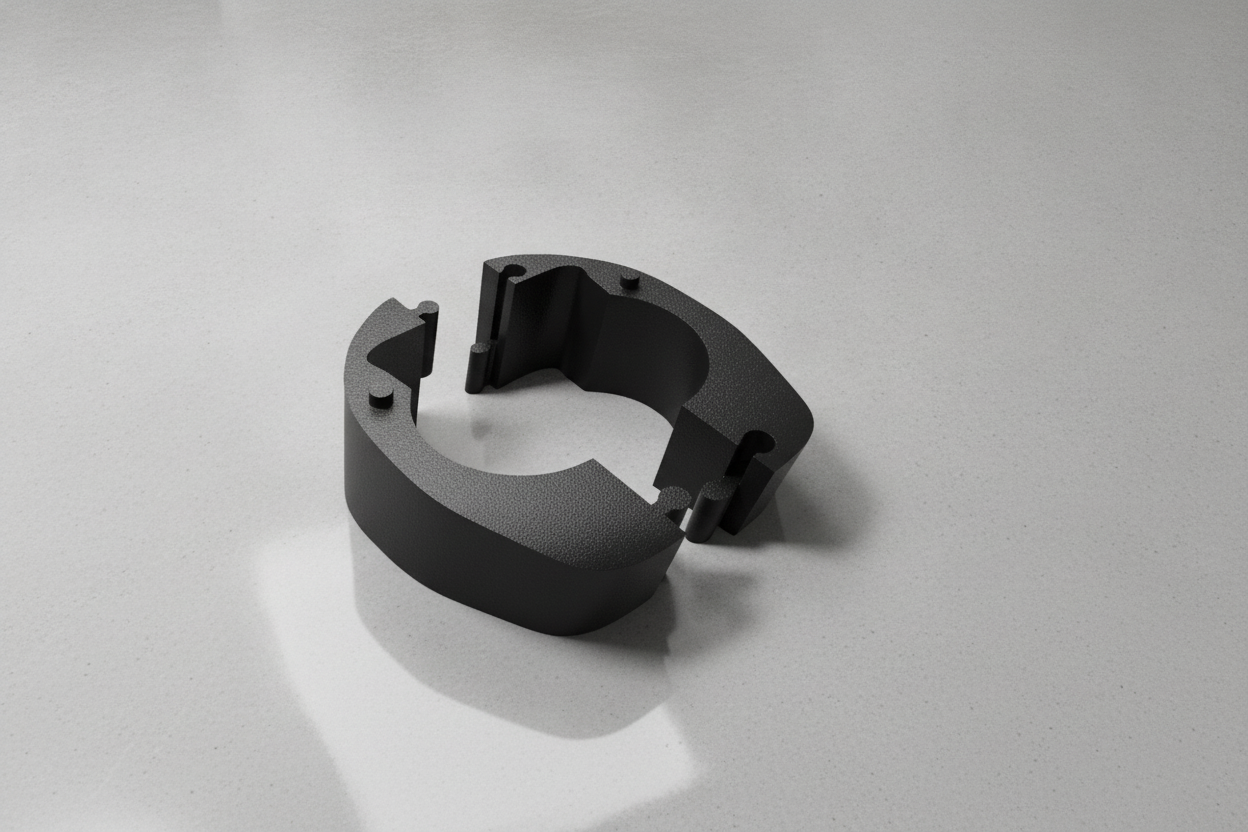
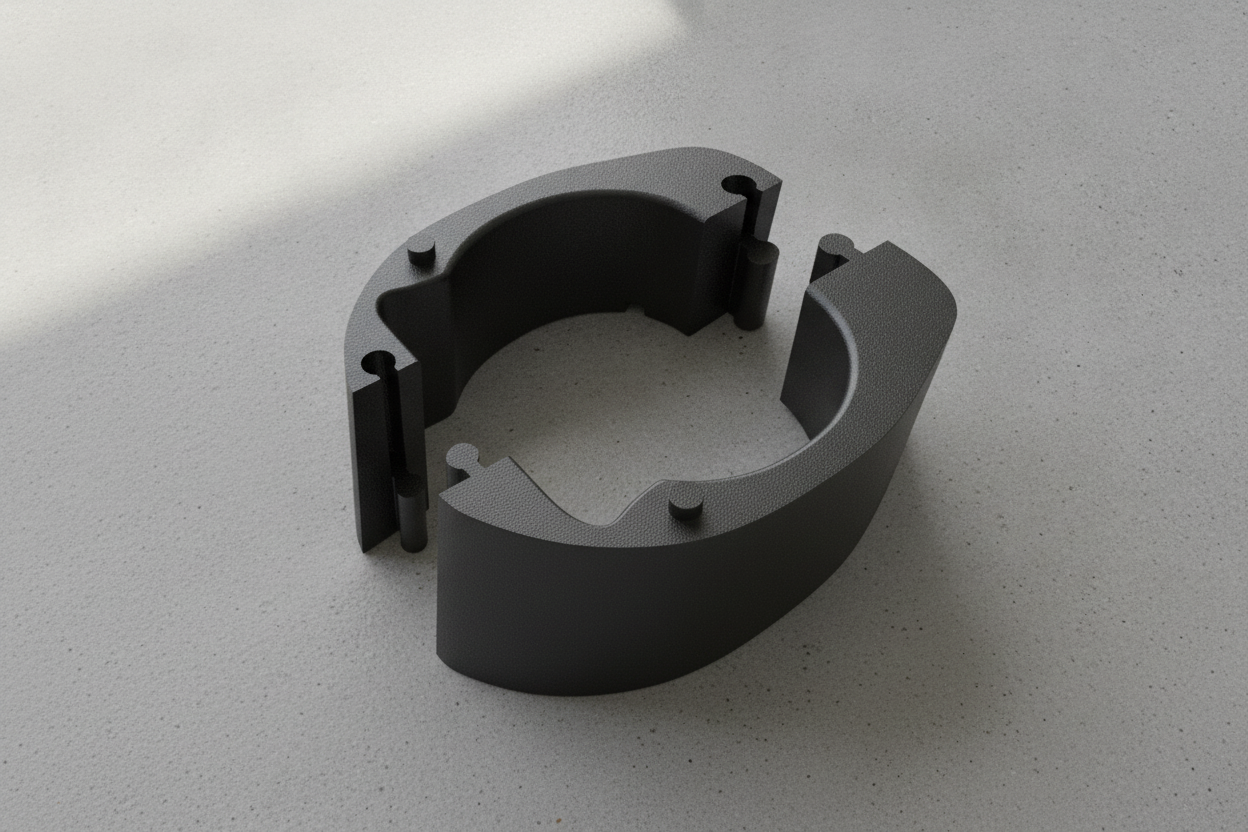
Finaler Stand Rev. C: Hero V2, Doku, lauffähige requirements
- Aufmacherbild durch Hero V2 (Rev. C) ersetzt
- requirements.txt: networkx ergänzt (render_adapter.py lief in einer
  frischen Umgebung nicht), ungenutztes scipy entfernt; in frischem
  venv mit Python 3.11 geprüft
- render_adapter.py: Zwischendateien im temporären Ordner statt /tmp
- README: Stand, FDM nur für Passprobe, Steuersatzspiel nachprüfen
- KONSTRUKTION.md: Stand und nächster Schritt, Prüfliste Prototyp 2,
  Ideen aus dem Review (O-4 bis O-7), Lastabschätzung, Messfehler Skizze
- CLAUDE.md: Herkunft des Aufmacherbilds

Claude-Session: https://claude.ai/code/session_01Hd3qfhqnJobezoX1Y5tUfd

diff --git a/02_CAD/render_adapter.py b/02_CAD/render_adapter.py
@@ -1,6 +1,6 @@
 """Renderings des zweiteiligen Adapters: Schnitte in mehreren Höhen (Hälfte A blau, B orange), Iso/Explosion, Drucklayout.
 Vorher python 02_CAD/adapter.py ausführen (das Drucklayout wird aus 02_CAD/out/DRUCK_*.stl gelesen)."""
-import sys, math, numpy as np, trimesh, matplotlib
+import sys, os, math, tempfile, numpy as np, trimesh, matplotlib
 matplotlib.use("Agg")
 import matplotlib.pyplot as plt
 from mpl_toolkits.mplot3d.art3d import Poly3DCollection
@@ -8,9 +8,10 @@ sys.path.insert(0, "02_CAD")
 import adapter as ad, cadquery as cq
 
 A, B = ad.adapter()
-cq.exporters.export(A, "/tmp/A.stl", tolerance=0.02, angularTolerance=0.1)
-cq.exporters.export(B, "/tmp/B.stl", tolerance=0.02, angularTolerance=0.1)
-mA, mB = trimesh.load("/tmp/A.stl"), trimesh.load("/tmp/B.stl")
+tmp = tempfile.mkdtemp()
+cq.exporters.export(A, os.path.join(tmp, "A.stl"), tolerance=0.02, angularTolerance=0.1)
+cq.exporters.export(B, os.path.join(tmp, "B.stl"), tolerance=0.02, angularTolerance=0.1)
+mA, mB = trimesh.load(os.path.join(tmp, "A.stl")), trimesh.load(os.path.join(tmp, "B.stl"))
 H = ad.HEIGHT
 cols = {"A": "tab:blue", "B": "tab:orange"}
 zs = [(0.5, "z = 0,5: Unterseite, Taschen für Trek-Nasen"), (4.5, "z = 4,5: unterer Zapfen von A greift in B"),

diff --git a/KONSTRUKTION.md b/KONSTRUKTION.md
@@ -2,7 +2,7 @@
 
 Adapter zwischen dem originalen Trek-Steuersatzdeckel (Émonda SL 6, 2024) und dem Tavelo-Avro-Rise-Cockpit.
 
-**Stand:** Rev. C, 2026-09-29: Prototyp 1 gedruckt und am Rad geprüft, Änderungen eingearbeitet (Abschnitt 6).
+**Stand:** Rev. C, 2026-09-29: Prototyp 1 gedruckt und am Rad geprüft, Änderungen eingearbeitet (Abschnitt 6). Prototyp 2 (Rev. C, FDM) ist in Fertigung. Nächster Schritt: dessen Befund in Abschnitt 6 eintragen.
 
 ---
 
@@ -18,7 +18,7 @@ Adapter zwischen dem originalen Trek-Steuersatzdeckel (Émonda SL 6, 2024) und d
 ## 2. Koordinatensystem
 
 - **Ursprung:** Durchstoßpunkt der Schaftachse durch die Unterseite
-- **x:** Längsachse, **+x nach hinten** (Richtung Oberrohr), Spitze vorn bei x = −28
+- **x:** Längsachse, **+x nach hinten** (Richtung Oberrohr); Spitze vorn bei x = −28 (Oberseite) bzw. −30,5 (Unterseite)
 - **y:** quer; Teilungsebene y = 0, Hälfte A bei y > 0, Hälfte B bei y < 0
 - **z:** Normale der Unterseite
 - **Schaftachse:** um α_T gegen z nach hinten geneigt
@@ -36,6 +36,8 @@ Adapter zwischen dem originalen Trek-Steuersatzdeckel (Émonda SL 6, 2024) und d
 | Trek-Nasen | Langloch 7,6 × 2,4 × 1,5; äußerste Punkte 20,25 auseinander, innerste 11,35; Längsausdehnung 7,0 | Mitte x = +20,0; y = ±7,9; 24° zur Längsachse, V-förmig (vorn außen) |
 | Taschen für die Nasen | Nase + 0,3 Spiel pro Seite, Tiefe 2,5; vorderes (inneres) Ende zur Bohrung geöffnet (Durchbruch in Taschenbreite) | |
 | Höhe | 20 entlang der Schaftachse | senkrecht zur Unterseite: hinten 15,5 / Achse 20,1 / vorn 24,3 |
+
+Die Skizze V2 in `01_Input/` nennt eine Gesamtlänge von 52,2; das war ein Messfehler, richtig sind 58 (13 + ~15 + 30).
 
 Nasenwinkel abgeleitet: aus der Querausdehnung 23,2°, aus der Längsausdehnung 27,8°, beides erfüllt bei 24,0°. Die Maße sind auf ±0,2 konsistent; das Taschenspiel deckt die Unsicherheit ab.
 
@@ -86,7 +88,13 @@ Selbst gedruckt, am Rad montiert (2026-09-29).
 |---|---|---|
 | O-1 | Wand zwischen Bohrungs-Langloch und Nasentaschen nur 0,27 | erledigt: Taschen zur Bohrung geöffnet (D-9) |
 | O-2 | Feinschliff | erledigt: vorderes Gelenk verschoben (D-5), Taschen offen (D-9), Kantenradien (D-10) |
-| O-3 | Rev. C drucken und am Rad prüfen, dann Endteil in PA12 (MJF) | offen |
+| O-3 | Prototyp 2 (Rev. C, FDM) am Rad prüfen, dann Endteil in PA12 (MJF) | Prototyp 2 in Fertigung. Prüfen: Stifte ohne Druck in den Sacklöchern, B ohne Klemmen aufschiebbar, vorn und hinten bündig, Aufziehen ohne Feilen, Fugen dicht |
+| O-4 | Idee: Stahlstifte statt gedruckter Stifte (Zylinderstift Ø 3 × 6, ISO 8734, in Bohrung ≈ Ø 2,9 eingepresst; Passmaß ist eine Annahme) | nicht umgesetzt; erst Durchmesser und Tiefe der Sacklöcher im Vorbau messen (bisher ungemessen) |
+| O-5 | Idee: Einführfasen 0,3 an den Stiftspitzen, 0,3–0,5 an den Enden der Gelenkzapfen | nicht umgesetzt; erleichtert die Montage |
+| O-6 | Idee: Gelenkspiel für MJF auf 0,25–0,3 (`JOINT_CLEAR`) | nicht umgesetzt; Einschätzung, kein Messwert. 0,2 hat im FDM-Prototyp gepasst |
+| O-7 | Idee: „A“, „B“ und Revision innen einprägen; Oberfläche des Endteils gefärbt und dampfgeglättet | nicht umgesetzt |
+
+Geprüft und unkritisch (Review Rev. C): Die Vorspannung (angenommen 1–2 kN) drückt den 9°-Keil mit ≈ 16 % nach hinten; Reibung an Ober- und Unterseite (μ ≈ 0,2) hält das allein, dazu Stifte, Nasenflanken und nach 0,7 der Schaft. Flächenpressung ≈ 1–2 MPa auf je ≈ 900 mm². Das Gelenk trägt keine Fahrlasten, jede Hälfte sitzt über eigene Nase und eigenen Stift. Lenk- und Biegemomente laufen über die Vorbauklemmung in den Schaft.
 
 Prüfen nach jeder Änderung: `python 02_CAD/check_adapter.py` (Kollision der Hälften, Bohrungsmaß, Wandstärken).
 

diff --git a/README.md b/README.md
@@ -6,7 +6,7 @@ Zweiteiliger, 3D-gedruckter Adapter, mit dem ein integriertes **Tavelo Avro Rise
 
 Das Modell ist parametrisch (Python/CadQuery). Wer einen anderen Rahmen oder andere Winkel hat, ändert ein paar Zahlen und exportiert neu.
 
-**Stand:** Ein erster Prototyp wurde gedruckt und am Rad geprüft, die Korrekturen sind eingearbeitet (Rev. C, siehe [`KONSTRUKTION.md`](KONSTRUKTION.md)). Das Endteil in PA12 ist noch nicht gedruckt.
+**Stand (Rev. C, 2026-09-29):** Prototyp 1 wurde gedruckt und am Rad geprüft, alle Korrekturen sind eingearbeitet. Prototyp 2 (Rev. C, FDM) ist in Fertigung, das Endteil in PA12 ist noch nicht gedruckt. Details, Befund und offene Punkte: [`KONSTRUKTION.md`](KONSTRUKTION.md).
 
 ## Für welches Rad und welches Cockpit
 
@@ -45,13 +45,13 @@ Nicht geprüft, aber naheliegend:
 ### Ich will nur drucken
 
 1. Datei **`02_CAD/out/DRUCK_Adapter_H20_T17_V8.stl`** (oder `.3mf`/`.step`) bei einem Druckdienst hochladen, zum Beispiel Craftcloud. Die Datei enthält beide Hälften, getrennt gelegt; die Menge ist 1.
-2. Verfahren **MJF**, Material **PA12**, Farbe schwarz. Kein FDM/PLA/PETG: Das Teil liegt in der Kraftkette der Lagervorspannung.
+2. Verfahren **MJF**, Material **PA12**, Farbe schwarz. Zum Fahren kein FDM/PLA/PETG: Das Teil liegt in der Kraftkette der Lagervorspannung. Für eine reine Passprobe reicht ein FDM-Druck (Unterseite aufs Druckbett, so liegt sie in der Datei).
 
 Passungen: Bohrung Ø 30 (0,7 mm Spiel radial zum Schaft, nach hinten 2 mm Langloch), Gelenk 0,2 mm Spiel radial, Nasentaschen 0,3 mm pro Seite. Klemmt das Gelenk nach dem Druck, die Zapfen leicht nachschleifen oder `JOINT_CLEAR` erhöhen.
 
 ### Ich will das Modell anpassen
 
-Voraussetzung: Python 3.10–3.12.
+Voraussetzung: Python 3.10–3.12 (getestet mit 3.11).
 
 ```bash
 git clone https://github.com/ThomasBirkmaier/trek-emonda-tavelo-spacer-adapter.git
@@ -85,6 +85,7 @@ Die Winkel stehen im Dateinamen der Exporte (`..._T17_V8`), damit man sieht, wel
 4. Tavelo-Vorbau aufsetzen, die Stifte rasten in die Sacklöcher, Vorspannung wie gewohnt einstellen.
 5. Beide Fugen gegen Licht prüfen: Trek-Deckel ↔ Adapter und Adapter ↔ Vorbau.
    Klafft die untere Fuge, stimmt `ALPHA_TREK` nicht: Spalt **hinten** → Wert zu groß, Spalt **vorn** → Wert zu klein. Anpassen (1° ≈ 1 mm Spalt über die Länge) und neu exportieren.
+6. Nach den ersten Ausfahrten das Steuersatzspiel prüfen und bei Bedarf nachstellen: Kunststoff kann sich unter der Vorspannung etwas setzen.
 
 ## Repository-Struktur
 
@@ -92,11 +93,11 @@ Die Winkel stehen im Dateinamen der Exporte (`..._T17_V8`), damit man sieht, wel
 |---|---|
 | [`KONSTRUKTION.md`](KONSTRUKTION.md) | Schnittstellen, Koordinatensystem, Maße, Winkel, Konstruktionsentscheidungen, Befund Prototyp, offene Punkte |
 | [`CLAUDE.md`](CLAUDE.md) | Arbeitsanweisungen für Claude Code (Einstieg in neue Sessions) |
-| `01_Input/` | Skizze, Herstellerzeichnung und Fotos, die ins Modell eingeflossen sind |
+| `01_Input/` | Skizze, Herstellerzeichnung und Fotos, die ins Modell eingeflossen sind (Rohdaten; die Skizze enthält noch die verworfene Länge 52, richtig ist 58) |
 | `02_CAD/adapter.py` | parametrisches Modell, einzige Quelle der Geometrie |
 | `02_CAD/check_adapter.py`, `02_CAD/render_adapter.py` | Prüfungen und Renderings |
 | `02_CAD/out/` | `Adapter_*` = zusammengebaut (Ansicht); `DRUCK_*` = druckfertig |
-| `03_Renderings/` | Aufmacherbild, Schnitte, Iso-Ansicht, Drucklayout |
+| `03_Renderings/` | Aufmacherbild (generiert, Rev. C), Schnitte, Iso-Ansicht, Drucklayout (von `render_adapter.py` erzeugt) |
 
 ![Schnitte](03_Renderings/Adapter_H20_Schnitte.png)
 

diff --git a/CLAUDE.md b/CLAUDE.md
@@ -36,7 +36,7 @@ Nach jeder Geometrieänderung alle drei in dieser Reihenfolge ausführen und Exp
 
 - `01_Input/` enthält Rohdaten (Skizze, Fotos, Herstellerzeichnung). Nicht verändern.
 - `02_CAD/adapter.py` ist die einzige Quelle der Geometrie. `02_CAD/out/` wird erzeugt, aber versioniert, damit man ohne Python drucken kann.
-- `03_Renderings/Hero.png` ist ein generiertes Aufmacherbild ohne Maßbezug. Alle anderen Bilder erzeugt `render_adapter.py`.
+- `03_Renderings/Hero.png` ist ein generiertes Aufmacherbild (Rev. C, Bildgenerator mit einer Modellansicht als Geometrievorlage), ohne Maßbezug. Alle anderen Bilder erzeugt `render_adapter.py`.
 - Keine Status-, Auftrags- oder Notizdateien anlegen. Stand und offene Punkte gehören in `KONSTRUKTION.md` (Abschnitte 6 bis 8).
 - Lizenz WTFPL.
 
